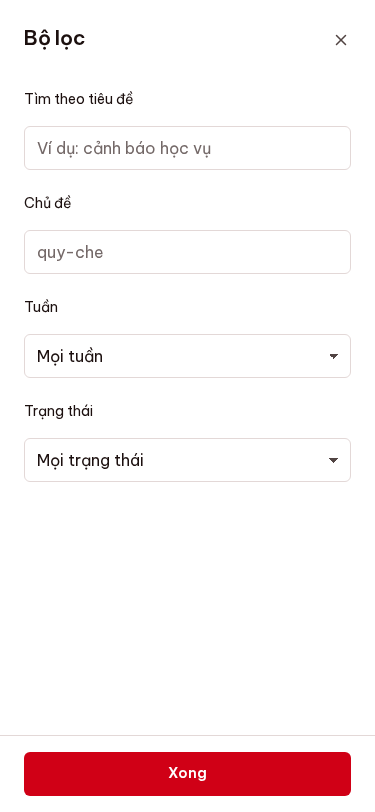
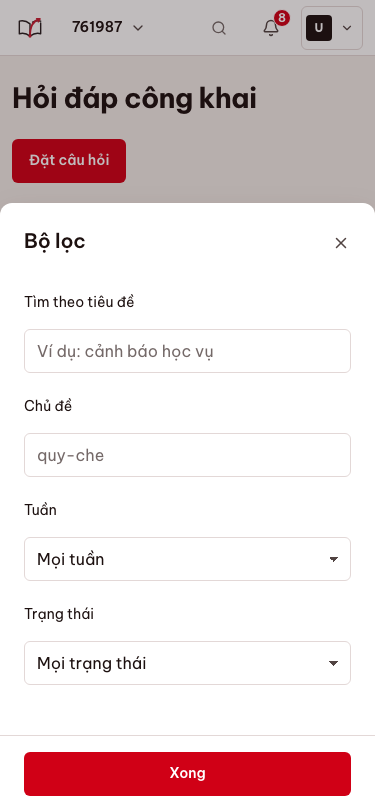
9.1: QC kiểm lại đợt 5 ở b02eeb68 trên Mac (FAIL: 4/7 lỗi đã sửa; còn P-91-13/14, UX13-19 mới, X1 ảnh; P-91-15)

diff --git a/frontend/e2e/qc-uiux91-w5b-real.spec.ts b/frontend/e2e/qc-uiux91-w5b-real.spec.ts
@@ -54,7 +54,7 @@ test("TC-UX19 giảng viên: đoạn trích, nhãn đa số, nhãn từng thread
     console.log(`INFO UX19 pending=${pending} dòng đầu:`, JSON.stringify((await page.locator("main").innerText()).match(/\d+ câu chờ xác nhận/)), "| số hàng có «Chờ xác nhận»:", data.filter((d) => d.meta.includes("Chờ xác nhận")).length, "| nhãn khác:", JSON.stringify(data.filter((d) => /Đã được|Đã sửa|Đã loại/.test(d.meta)).map((d) => d.title)));
     const t7 = data[6].prev;
     console.log("INFO UX19-2 T7:", t7.length, JSON.stringify(t7.slice(0, 30)), t7.endsWith("…"));
-    if (pending === 17) await page.screenshot({ path: "/out/shots-w5/threads-gv-fixture-1440.png" });
+    if (pending === 17) await page.screenshot({ path: "../docs/sprints/9.1/qc/shots/wave-5/threads-gv-fixture-1440.png" });
     await ctx.close();
   }
 });
@@ -101,7 +101,7 @@ test("TC-UX19 thật: giảng viên, SV 375 bộ lọc, thời gian, phân trang
   await dlg.getByRole("button", { name: "Xong" }).tap().catch(() => undefined);
   await p2.waitForTimeout(800);
   console.log("INFO UX19-7 sau đặt 2 bộ lọc:", JSON.stringify(await fb.first().innerText()), JSON.stringify(await fb.first().boundingBox()));
-  await p2.screenshot({ path: "/out/shots-w5/threads-sv-375.png" });
+  await p2.screenshot({ path: "../docs/sprints/9.1/qc/shots/wave-5/threads-sv-375.png" });
   console.log("INFO UX19-6 SV: danh sách có nội dung AI chưa xác nhận?", JSON.stringify((await rowsOf(p2).first().innerText()).replace(/\s+/g, " ").slice(0, 200)));
   // PII dialog: SV viết bài có MSSV
   await c2.close();
@@ -117,7 +117,7 @@ test("TC-UX19 thật: giảng viên, SV 375 bộ lọc, thời gian, phân trang
   await form.getByRole("button", { name: /Đăng|Gửi/ }).first().click();
   await p3.waitForTimeout(2500);
   console.log("INFO UX19-12 hộp thoại:", await p3.getByRole("dialog").count(), JSON.stringify((await p3.getByRole("dialog").first().innerText().catch(() => "")).replace(/\s+/g, " ").slice(0, 300)), "| status:", JSON.stringify(await p3.locator("[data-part=pii-notice]").allInnerTexts()));
-  await p3.screenshot({ path: "/out/shots-w5/threads-pii-1440.png" });
+  await p3.screenshot({ path: "../docs/sprints/9.1/qc/shots/wave-5/threads-pii-1440.png" });
   await c3.close();
   // 403 SV không thuộc lớp
   const c4 = await browser.newContext({ ignoreHTTPSErrors: true });
@@ -149,7 +149,7 @@ test("TC-UX20 Kết quả của tôi: một khối, số khớp API, chưa công
   console.log("INFO UX20-1 «Căn cứ» số lần:", (txt.match(/Căn cứ/g) ?? []).length, "| «Giữa kỳ · 20 %» lặp:", (txt.match(/Giữa kỳ/g) ?? []).length, "| mã lớp trần:", /^761987$/m.test(await page.locator("main").innerText()), "| đã công bố nút xem lại:", JSON.stringify(txt.match(/Yêu cầu xem lại/g)));
   // nửa dưới: bài tập / điểm nháp
   console.log("INFO UX20-4 từ nháp / rủi ro / ghi chú:", JSON.stringify(txt.match(/nháp|rủi ro|ghi chú quan sát|DRAFT/gi)));
-  await page.screenshot({ path: "/out/shots-w5/me-1440.png", fullPage: true });
+  await page.screenshot({ path: "../docs/sprints/9.1/qc/shots/wave-5/me-1440.png", fullPage: true });
   // SV chưa có điểm
   const c2 = await browser.newContext({ ignoreHTTPSErrors: true, viewport: { width: 1440, height: 900 } });
   const p2 = await c2.newPage();
@@ -157,7 +157,7 @@ test("TC-UX20 Kết quả của tôi: một khối, số khớp API, chưa công
   await p2.goto("/me");
   await p2.waitForTimeout(4500);
   console.log("INFO UX20-6 sv.moi /me:", JSON.stringify((await p2.locator("main").innerText()).replace(/\n+/g, " ⏎ ").slice(0, 500)));
-  await p2.screenshot({ path: "/out/shots-w5/me-moi-1440.png" });
+  await p2.screenshot({ path: "../docs/sprints/9.1/qc/shots/wave-5/me-moi-1440.png" });
   // 403 SV A gọi dữ liệu SV B
   const cs = await api(p2, "/me/courses");
   console.log("INFO UX20-8 sv.moi lớp:", JSON.stringify(cs.body.items?.map((i: any) => i.course.class_code)));
@@ -176,7 +176,7 @@ test("TC-UX20 Kết quả của tôi: một khối, số khớp API, chưa công
   await p3.goto("/me");
   await p3.waitForTimeout(4500);
   console.log("INFO UX20-9 375: scrollHeight", await p3.evaluate(() => document.documentElement.scrollHeight), "| tràn ngang:", await p3.evaluate(() => document.documentElement.scrollWidth - document.documentElement.clientWidth));
-  await p3.screenshot({ path: "/out/shots-w5/me-375-full.png", fullPage: true });
+  await p3.screenshot({ path: "../docs/sprints/9.1/qc/shots/wave-5/me-375-full.png", fullPage: true });
   await c3.close();
 });
 
@@ -195,7 +195,7 @@ test("TC-UX18 Tài liệu: nhãn Loại, Chia sẻ từ, công tắc, 375, SV, l
     const sw = await page.locator("main tbody tr [role=switch]").evaluateAll((els) => els.map((e) => ({ name: e.getAttribute("aria-label") ?? "", on: e.getAttribute("aria-checked"), dis: (e as HTMLButtonElement).disabled || e.getAttribute("aria-disabled"), w: Math.round(e.getBoundingClientRect().width), h: Math.round(e.getBoundingClientRect().height), bg: getComputedStyle(e).backgroundColor, op: getComputedStyle(e).opacity })));
     console.log(`INFO UX18-4 @${w} công tắc:`, JSON.stringify(sw));
     if (w === 1440) {
-      await page.screenshot({ path: "/out/shots-w5/documents-1440.png" });
+      await page.screenshot({ path: "../docs/sprints/9.1/qc/shots/wave-5/documents-1440.png" });
       // UX18-7: chặn API, đổi công tắc
       const first = page.locator("main tbody tr [role=switch]").first();
       const before = await first.getAttribute("aria-checked");
@@ -232,7 +232,7 @@ test("TC-UX18 Tài liệu: nhãn Loại, Chia sẻ từ, công tắc, 375, SV, l
   await p3.goto("/documents");
   await p3.waitForTimeout(4500);
   console.log("INFO UX18-5/9 375: tràn ngang", await p3.evaluate(() => document.documentElement.scrollWidth - document.documentElement.clientWidth), "| công tắc:", JSON.stringify(await p3.locator("[role=switch]").evaluateAll((els) => els.slice(0, 4).map((e) => `${Math.round(e.getBoundingClientRect().width)}x${Math.round(e.getBoundingClientRect().height)}`))));
-  await p3.screenshot({ path: "/out/shots-w5/documents-375.png" });
+  await p3.screenshot({ path: "../docs/sprints/9.1/qc/shots/wave-5/documents-375.png" });
   await c3.close();
   // SV, lớp lạ
   const c4 = await browser.newContext({ ignoreHTTPSErrors: true, viewport: { width: 1440, height: 900 } });

diff --git a/frontend/e2e/qc-uiux91-w5i-real.spec.ts b/frontend/e2e/qc-uiux91-w5i-real.spec.ts
@@ -1,0 +1,72 @@
+import { expect, test, type Page } from "@playwright/test";
+
+test.skip(!process.env.QC_REAL, "cần stack thật ep-qc: chạy bằng `QC_REAL=1 playwright test -c playwright.qc-real.config.ts`");
+const PW = process.env.QC_PW ?? "Edupilot#Seed-2026";
+
+async function login(page: Page, email: string) {
+  await page.goto("/login");
+  await page.locator("input[type=email]").fill(email);
+  await page.locator("input[type=password]").fill(PW);
+  await page.keyboard.press("Enter");
+  await page.waitForURL((u) => !u.pathname.startsWith("/login"));
+  await page.locator("[data-part=topbar]").waitFor();
+}
+const api = (page: Page, path: string) =>
+  page.evaluate(async (p) => {
+    const a = await (await fetch("/api/v1/auth/refresh", { method: "POST", credentials: "include" })).json();
+    const r = await fetch(`/api/v1${p}`, { headers: { authorization: `Bearer ${a.access_token}` } });
+    return { status: r.status, body: await r.json().catch(() => null) };
+  }, path);
+const cid = async (page: Page, code: string) => (await api(page, "/me/courses")).body.items.find((i: { course: { class_code: string } }) => i.course.class_code === code).course.id as string;
+const fresh = async (browser: import("@playwright/test").Browser, mail: string, vp = { width: 1440, height: 900 }) => { const ctx = await browser.newContext({ ignoreHTTPSErrors: true, viewport: vp }); const page = await ctx.newPage(); page.setDefaultTimeout(10000); await login(page, mail); return { ctx, page }; };
+
+test("TC-UX19-10 danh sách lỗi → ApiErrorNotice + Thử lại", async ({ browser }, info) => {
+  test.skip(info.project.name !== "desktop");
+  test.setTimeout(100000);
+  const { ctx, page } = await fresh(browser, "teacher@edupilot.local");
+  let block = true;
+  await page.route(/\/api\/v1\/courses\/[0-9a-f-]+\/threads(\?.*)?$/, (r) => (block ? r.abort() : r.continue()));
+  await page.goto("/threads"); await page.waitForTimeout(5000);
+  const retry = page.getByRole("button", { name: /Thử lại/ });
+  console.log("INFO UX19-10 lỗi:", JSON.stringify((await page.locator("main").innerText()).replace(/\s+/g, " ").slice(0, 200)), "| Thử lại:", await retry.count());
+  block = false;
+  if (await retry.count()) { await retry.first().click(); await page.waitForTimeout(3000); }
+  console.log("INFO UX19-10 sau Thử lại: số hàng", await page.locator("[data-part=thread-list] > li").count());
+  await ctx.close();
+});
+
+test("TC-UX20-8 tham số user_id không đổi danh tính", async ({ browser }, info) => {
+  test.skip(info.project.name !== "desktop");
+  test.setTimeout(100000);
+  const { ctx, page } = await fresh(browser, "sv.kha@edupilot.local");
+  const c = await cid(page, "761987");
+  const own = await api(page, `/courses/${c}/me/grades`);
+  const { ctx: c2, page: p2 } = await fresh(browser, "sv.gioi@edupilot.local");
+  const other = await api(p2, `/courses/${c}/me/grades`);
+  const spoof = await api(page, `/courses/${c}/me/grades?user_id=${(await api(p2, "/auth/me").catch(() => ({ body: null }))).body?.sub ?? "00000000-0000-4000-8000-000000000000"}`);
+  console.log("INFO UX20-8 qt của A:", own.body?.qt, "| qt của B:", other.body?.qt, "| A gọi ?user_id=B:", spoof.status, spoof.body?.qt, "| bằng của A:", spoof.body?.qt === own.body?.qt);
+  expect(spoof.body?.qt).toBe(own.body?.qt);
+  await c2.close(); await ctx.close();
+});
+
+test("TC-UX13-3/4 thu gọn lịch sử: vị trí Panel; tiêu đề dài", async ({ browser }, info) => {
+  test.skip(info.project.name !== "desktop");
+  test.setTimeout(150000);
+  const { ctx, page } = await fresh(browser, "sv.kha@edupilot.local");
+  await page.goto("/chat"); await page.waitForTimeout(4500);
+  const panel = () => page.locator("[data-part=chat-inner]").evaluate((e) => { const p = e.closest("[class*=Panel-module]") as HTMLElement; const r = p.getBoundingClientRect(); const m = document.querySelector("main")!.getBoundingClientRect(); return { x: Math.round(r.x), r: Math.round(r.right), w: Math.round(r.width), mainL: Math.round(m.x), mainR: Math.round(m.right) }; });
+  console.log("INFO UX13-1 trước thu gọn:", JSON.stringify(await panel()));
+  await page.getByRole("button", { name: "Thu gọn lịch sử" }).click(); await page.waitForTimeout(900);
+  console.log("INFO UX13-3 sau thu gọn:", JSON.stringify(await panel()));
+  await page.screenshot({ path: "../docs/sprints/9.1/qc/shots/wave-5/chat-collapsed-1440.png" });
+  await page.getByRole("button", { name: /^Phiên trước/ }).first().click().catch(() => undefined);
+  await page.waitForTimeout(600);
+  const long = "Em muốn hỏi một câu rất dài về cách tính điểm quá trình, điểm chuyên cần, điểm cộng phát biểu và điểm trừ vắng mặt trong học phần An ninh mạng của lớp em học kỳ này";
+  await page.getByRole("textbox", { name: "Câu hỏi của bạn" }).fill(long);
+  await page.getByRole("button", { name: "Gửi", exact: true }).click();
+  await page.waitForTimeout(7000);
+  const row = page.locator("[data-part=chat-history] li").first();
+  console.log("INFO UX13-4 hàng:", JSON.stringify((await row.innerText()).replace(/\n/g, " ⏎ ")), JSON.stringify(await row.evaluate((e) => { const t = e.querySelector("button, a, p, span") as HTMLElement; const c = getComputedStyle(t); return { lh: c.lineHeight, h: Math.round(t.getBoundingClientRect().height), clamp: c.webkitLineClamp, ov: c.overflow }; })));
+  await page.screenshot({ path: "../docs/sprints/9.1/qc/shots/wave-5/chat-longtitle-1440.png" });
+  await ctx.close();
+});

diff --git a/frontend/e2e/qc-uiux91-w5e-real.spec.ts b/frontend/e2e/qc-uiux91-w5e-real.spec.ts
@@ -38,7 +38,7 @@ test("TC-UX18 Tài liệu lớp 761987 (tài liệu của chính lớp): công t
   console.log("INFO UX18-4 công tắc 761987:", JSON.stringify(info1.slice(0, 8)), "| tên truy cập:", JSON.stringify(named));
   const nameOf = async (i: number) => page.evaluate((idx) => { const e = document.querySelectorAll("[role=switch]")[idx] as HTMLElement; const lb = e.getAttribute("aria-labelledby"); return e.getAttribute("aria-label") ?? (lb ? lb.split(" ").map((x) => document.getElementById(x)?.textContent).join(" ") : (e.closest("label")?.textContent ?? "")); }, i);
   console.log("INFO UX18-4 tên:", JSON.stringify([await nameOf(0), await nameOf(1), await nameOf(2)]));
-  await page.screenshot({ path: "/out/shots-w5/documents-761987-1440.png" });
+  await page.screenshot({ path: "../docs/sprints/9.1/qc/shots/wave-5/documents-761987-1440.png" });
   const first = page.getByRole("switch").first();
   const before = await first.getAttribute("aria-checked");
   await page.route(/\/api\/v1\/courses\/[0-9a-f-]+\/documents\/[0-9a-f-]+/, (r) => (["PATCH", "PUT", "POST"].includes(r.request().method()) ? r.abort() : r.continue()));
@@ -65,7 +65,7 @@ test("TC-UX18 Tài liệu lớp 761987 (tài liệu của chính lớp): công t
   await p3.evaluate((id) => localStorage.setItem("ep:ui:course", id), c);
   await p3.goto("/documents"); await p3.waitForTimeout(5000);
   console.log("INFO UX18-5/9 375 761987: tràn", await p3.evaluate(() => document.documentElement.scrollWidth - document.documentElement.clientWidth), "| công tắc (hộp công tắc / nhãn bọc):", JSON.stringify(await p3.getByRole("switch").evaluateAll((els) => els.slice(0, 4).map((e) => { const l = e.closest("label") ?? e; const r = l.getBoundingClientRect(); const s = e.getBoundingClientRect(); return `sw ${Math.round(s.width)}x${Math.round(s.height)} / bọc ${Math.round(r.width)}x${Math.round(r.height)}`; }))));
-  await p3.screenshot({ path: "/out/shots-w5/documents-761987-375.png", fullPage: true });
+  await p3.screenshot({ path: "../docs/sprints/9.1/qc/shots/wave-5/documents-761987-375.png", fullPage: true });
   await c3.close();
 });
 
@@ -79,6 +79,6 @@ test("TC-UX19-7 bảng bộ lọc 375: trượt từ đáy", async ({ browser },
   await page.waitForTimeout(900);
   const box = await page.evaluate(() => { const d = document.querySelector("dialog[open], [role=dialog]") as HTMLElement; const out: unknown[] = []; let e: HTMLElement | null = d; for (let i = 0; i < 3 && e; i++) { const r = e.getBoundingClientRect(); out.push({ tag: e.tagName, cls: e.className.toString().slice(0, 30), y: Math.round(r.y), b: Math.round(r.bottom), h: Math.round(r.height), radius: getComputedStyle(e).borderTopLeftRadius }); e = e.firstElementChild as HTMLElement | null; } return out; });
   console.log("INFO UX19-7 khung:", JSON.stringify(box));
-  await page.screenshot({ path: "/out/shots-w5/threads-sheet-375.png" });
+  await page.screenshot({ path: "../docs/sprints/9.1/qc/shots/wave-5/threads-sheet-375.png" });
   await ctx.close();
 });

diff --git a/frontend/e2e/qc-uiux91-w5d-real.spec.ts b/frontend/e2e/qc-uiux91-w5d-real.spec.ts
@@ -49,7 +49,7 @@ test("TC-UX17 Insights thật 761988: Panel, khung lồng, chữ, khoảng cách
   console.log("INFO UX17-6 khoảng giữa Panel:", JSON.stringify(gaps));
   const lines = await page.locator("main").evaluate((m) => [...m.querySelectorAll("h1 ~ *, h2 ~ p, h2 + *, p")].filter((e) => e.tagName === "P" || /meta|sub|note|hint/i.test(e.className.toString())).slice(0, 12).map((e) => { const t = (e as HTMLElement).innerText.replace(/\s+/g, " ").trim(); return `${t.split(/\s+/).filter((w) => /\p{L}|\d/u.test(w)).length}t: ${t.slice(0, 90)}`; }));
   console.log("INFO UX17-3 các dòng phụ:", JSON.stringify(lines));
-  await page.screenshot({ path: "/out/shots-w5/insights-1440-full.png", fullPage: true });
+  await page.screenshot({ path: "../docs/sprints/9.1/qc/shots/wave-5/insights-1440-full.png", fullPage: true });
   // :active và hoạt cảnh
   const btn = page.getByRole("button", { name: "Tạo báo cáo mới" });
   const bb = (await btn.boundingBox())!;
@@ -71,7 +71,7 @@ test("TC-UX17 Insights thật 761988: Panel, khung lồng, chữ, khoảng cách
   await p2.waitForTimeout(4500);
   const t2 = (await p2.locator("main").innerText()).replace(/\n+/g, " ⏎ ");
   console.log("INFO UX17-9 /insights lớp không có báo cáo:", JSON.stringify(t2.slice(0, 400)), "| nút:", JSON.stringify(await p2.locator("main button").allInnerTexts()));
-  await p2.screenshot({ path: "/out/shots-w5/insights-empty-1440.png" });
+  await p2.screenshot({ path: "../docs/sprints/9.1/qc/shots/wave-5/insights-empty-1440.png" });
   // UX17-10: tạo báo cáo mới
   const create = p2.getByRole("button", { name: "Tạo báo cáo mới" });
   if (await create.count()) {
@@ -109,7 +109,7 @@ test("TC-UX17 Quan sát AI thật: số liệu đúng một chỗ, bảng 7 ngà
   await rows.first().click().catch(() => undefined);
   await page.waitForTimeout(1200);
   console.log("INFO UX17-7 sau chọn hàng: dialog", await page.getByRole("dialog").count(), "| text:", JSON.stringify((await page.locator("body").innerText()).replace(/\s+/g, " ").match(/(Nội dung|prompt|Prompt|câu hỏi của sinh viên)[^.]{0,80}/g)?.slice(0, 3)));
-  await page.screenshot({ path: "/out/shots-w5/observability-1440-full.png", fullPage: true });
+  await page.screenshot({ path: "../docs/sprints/9.1/qc/shots/wave-5/observability-1440-full.png", fullPage: true });
   await ctx.close();
   // quyền
   const c761988 = await (async () => { const c = await browser.newContext({ ignoreHTTPSErrors: true }); const p = await c.newPage(); await login(p, "teacher@edupilot.local"); const id = await cid(p, "761988"); await c.close(); return id; })();

diff --git a/frontend/e2e/qc-uiux91-w5a-real.spec.ts b/frontend/e2e/qc-uiux91-w5a-real.spec.ts
@@ -84,7 +84,7 @@ test("TC-UX13 chat 1440: bố cục, lịch sử, gợi ý, Phiên mới, xoá c
   const txt = (await page.locator("main").innerText()).replace(/\s+/g, " ");
   console.log("INFO UX13-15 dòng che:", JSON.stringify(txt.match(/Đã ẩn \d+ thông tin cá nhân trước khi gửi cho AI/)), "| lộ tên/MSSV/email trong màn:", /Nguyễn Minh Trung|20229002|sv\.kha@/.test(txt));
   console.log("INFO UX13-14 từ kỹ thuật sau gửi:", JSON.stringify(txt.match(BAD)));
-  await page.screenshot({ path: "/out/shots-w5/chat-after-send-1440.png" });
+  await page.screenshot({ path: "../docs/sprints/9.1/qc/shots/wave-5/chat-after-send-1440.png" });
 
   // --- xoá có hoàn tác (phiên PII vừa tạo là hàng đầu)
   await page.waitForTimeout(500);
@@ -173,7 +173,7 @@ test("TC-UX13-18/21/22/23 chat: gõ khi đang trả lời, gửi lại cùng Ide
     const a = await (await fetch("/api/v1/auth/refresh", { method: "POST", credentials: "include" })).json();
     const h = { authorization: `Bearer ${a.access_token}` };
     const out: string[] = [];
-    for (const id of ids.slice(0, 3)) { const r = await fetch(`/api/v1/chat/sessions/${id}/messages?limit=5`, { headers: h }); out.push(`${r.status}:${(await r.text()).includes("Tin QC") || (await r.clone().text()).includes("content") && r.status === 200 ? "LỘ" : "ok"}`); }
+    for (const id of ids.slice(0, 3)) { const r = await fetch(`/api/v1/chat/sessions/${id}/messages?limit=5`, { headers: h }); out.push(`${r.status}:${((t) => (t.includes("Tin QC") || (t.includes("content") && r.status === 200) ? "LỘ" : "ok"))(await r.text())}`); }
     return out;
   }, cnt.ids);
   console.log("INFO UX13-23 SV khác đọc phiên của SV A:", JSON.stringify(res));
@@ -224,7 +224,7 @@ test("TC-UX13-24/14/25 chat 375: bảng phiên, ô nhập, vùng chạm, hoạt 
   console.log("INFO UX13-24 bảng phiên:", await dlg.count(), JSON.stringify(db), "| hàng:", await dlg.first().locator("button, a, [role=option], li").count());
   const hits = await dlg.first().locator("button, a, [role=menuitem], [role=option]").evaluateAll((es) => es.slice(0, 12).map((e) => `${(e as HTMLElement).innerText.trim().slice(0, 18)}:${Math.round(e.getBoundingClientRect().width)}x${Math.round(e.getBoundingClientRect().height)}`));
   console.log("INFO UX13-24 vùng chạm trong bảng:", JSON.stringify(hits));
-  await page.screenshot({ path: "/out/shots-w5/chat-sheet-375.png" });
+  await page.screenshot({ path: "../docs/sprints/9.1/qc/shots/wave-5/chat-sheet-375.png" });
   await page.keyboard.press("Escape");
   await ctx.close();
 });

diff --git a/frontend/e2e/qc-uiux91-w5g-real.spec.ts b/frontend/e2e/qc-uiux91-w5g-real.spec.ts
@@ -32,7 +32,7 @@ test("TC-UX20-6/7 /me rỗng và lỗi", async ({ browser }, info) => {
   await page.route(/\/courses\/[0-9a-f-]+\/me\/grades(\?.*)?$/, (r) => r.fulfill({ json: empty }));
   await page.goto("/me"); await page.waitForTimeout(4500);
   console.log("INFO UX20-6 rỗng:", JSON.stringify((await page.locator("main").innerText()).replace(/\s+/g, " ").slice(0, 300)));
-  await page.screenshot({ path: "/out/shots-w5/me-empty-1440.png" });
+  await page.screenshot({ path: "../docs/sprints/9.1/qc/shots/wave-5/me-empty-1440.png" });
   await page.unroute(/\/courses\/[0-9a-f-]+\/me\/grades(\?.*)?$/);
   await page.route(/\/courses\/[0-9a-f-]+\/me\/grades(\?.*)?$/, (r) => r.abort());
   await page.goto("/me"); await page.waitForTimeout(4500);
@@ -91,7 +91,7 @@ test("TC-UX17-8/9 admin xem prompt; lớp chưa có báo cáo", async ({ browser
   await page.evaluate((id) => localStorage.setItem("ep:ui:course", id), c);
   await page.goto("/insights"); await page.waitForTimeout(4500);
   console.log("INFO UX17-9 lớp QC117283:", JSON.stringify((await page.locator("main").innerText()).replace(/\n+/g, " ⏎ ").slice(0, 300)), "| nút:", JSON.stringify(await page.locator("main button").allInnerTexts()));
-  await page.screenshot({ path: "/out/shots-w5/insights-empty-qc-1440.png" });
+  await page.screenshot({ path: "../docs/sprints/9.1/qc/shots/wave-5/insights-empty-qc-1440.png" });
   await ctx.close();
   const { ctx: c2, page: p2 } = await fresh(browser, "admin@edupilot.local");
   await p2.goto("/observability"); await p2.waitForTimeout(4500);

diff --git a/frontend/e2e/qc-uiux91-w5x-real.spec.ts b/frontend/e2e/qc-uiux91-w5x-real.spec.ts
@@ -32,8 +32,8 @@ for (const [name, email, url] of PAGES) {
       await login(page, email);
       await page.goto(url);
       await page.waitForTimeout(4500);
-      await page.screenshot({ path: `/out/shots-w5/${name}-${w}.png` });
-      await page.screenshot({ path: `/out/shots-w5/${name}-${w}-full.png`, fullPage: true });
+      await page.screenshot({ path: `../docs/sprints/9.1/qc/shots/wave-5/${name}-${w}.png` });
+      await page.screenshot({ path: `../docs/sprints/9.1/qc/shots/wave-5/${name}-${w}-full.png`, fullPage: true });
       const t = (await page.locator("main").innerText()).replace(/\n+/g, " ⏎ ");
       console.log(`INFO ${name}@${w} H=${await page.evaluate(() => document.documentElement.scrollHeight)} :: ${t.slice(0, w === 1440 ? 1800 : 400)}`);
       await ctx.close();

diff --git a/docs/sprints/9.1/qc/wave-5.md b/docs/sprints/9.1/qc/wave-5.md
@@ -1,6 +1,36 @@
 # QC đợt 5 — Chat riêng, Hỏi đáp, Kết quả của tôi, Tài liệu, Insights (US-UX91-13, 19, 20, 18, 17)
 
-**ĐANG KIỂM DỞ, tiếp tục tối 09/11 (chủ dự án cho dừng).** Kết luận tạm: **FAIL** (đã có FAIL chắc chắn ở US-13, 19, 20, 18; US-17 còn mục không kiểm được). Bảng dưới là phần đã chạy; mục «CHƯA CHẠY» làm tiếp.
+**Kết luận lượt 2 (`b02eeb68`, dev: «9.1 sửa QC đợt 5»): FAIL.** 4 trong 7 lỗi lượt 1 đã sửa (UX13-17, UX19-7, UX20-6, UX18-7). Còn mở: UX13-1 và UX20-9 (chờ PM quyết P-91-13, P-91-14), lỗi mới UX13-19 (Thấp), US-08 AC10a ảnh khung ghim (Thấp), UX17-8/9 không kiểm được (P-91-15). Không có lỗi mức Trung bình. Bảng «lượt 1» ở dưới giữ nguyên làm lịch sử.
+
+## Kiểm lại lần 2 ở `b02eeb68`
+Môi trường: Mac (Apple Silicon, Colima), stack `-p ep-qc` dựng lại **sạch** (`down -v` + seed 30 SV + docling) từ `b02eeb68`, `https://localhost:943`, mock LLM. Chạy `qc-uiux91-w5a…w5h`, `w5i` (stack thật, 21 + 3 ca), 123 ca dev (`documents`, `me`, `threads`, `private-chat`, `panels`), `ui-antipatterns.sh`, `eslint`, `tsc`.
+| TC | Lượt 1 | Nay | Ghi chú |
+| --- | --- | --- | --- |
+| UX13-17 (AC6 «chỉ bạn đọc được») | FAIL (Thấp) | PASS | Phiên trống 1440: câu có ở `main` và `body` |
+| UX19-7 (AC4, 375) | FAIL (Thấp) | PASS | Bảng lọc `y 203 → 812`, rộng 375, nút `Bộ lọc` 102×44 → «Bộ lọc · 2» 122×44; trượt từ đáy |
+| UX20-6 (AC6) | FAIL (Thấp) | PASS | «Chưa có điểm nào được công bố. Điểm sẽ hiện ở đây khi giảng viên công bố.» |
+| UX18-7 (AC5) | FAIL (Thấp) | PASS | Chặn ghi → công tắc hoàn lại, «Chưa lưu được.» + nút `Thử lại` (1); bấm `Thử lại` → công tắc đổi |
+| **UX13-1 (AC1 Panel căn giữa)** | FAIL (Thấp) | **FAIL (Thấp), chờ PM** | Panel `x 540 → 1380` (840), lề 36 / 36 trong phần bên phải cột lịch sử (504 → 1416), lề 324 / 60 so với vùng nội dung. Dev đề xuất giữ (P-91-13); theo AC hiện hành vẫn FAIL |
+| UX13-3 (thu gọn lịch sử) | PASS có ghi chú | PASS | Thu gọn: Panel `x 408 → 1248`, rộng 840, căn giữa vùng nội dung (216 → 1440); CLS 0 |
+| UX13-4 (tiêu đề dài) | CHƯA CHẠY | PASS | Tiêu đề 2 dòng, `-webkit-line-clamp: 2`, `overflow: hidden`, `…` ở cuối |
+| **UX13-19 (AC7, nháp sau tải lại)** | PASS có giới hạn | **FAIL (Thấp)** | Xem «Lỗi mới» dưới |
+| UX13-21 (AC8 gửi lại) | PASS | PASS có ghi chú | Chặn POST → ô nhập giữ chữ, `Gửi lại`; bỏ chặn → đúng 1 tin được ghi. Không đo được hai `Idempotency-Key` (phiên mới: lần 1 là `POST /chat/sessions`, không phải `…/messages`) |
+| UX19-10 (AC6 lỗi API) | CHƯA CHẠY | PASS | Lỗi tải → `Thử lại`; bấm → 3 hàng |
+| UX20-8 (AC7) | PASS có giới hạn | PASS | `GET /courses/‹c›/me/grades?user_id=‹B›` gọi bởi A → 200 và `qt` **của A** (8.25, không phải 10 của B); A gọi `…/students/‹B›/explain` → 403 |
+| **UX20-9 (AC8, 375)** | FAIL (Thấp) | **FAIL (Thấp), chờ PM** | `sv.kha`: 2.059 px (lượt 1: 2.387), không tràn ngang. Vẫn > 1.600; dev đề xuất ≤ 2.000 (P-91-14) |
+| UX13-2 (`ui-antipatterns`, `panels.spec`) | CHƯA CHẠY | PASS | `ui-antipatterns.sh` sạch, `panels.spec` xanh |
+| UX17-1…7, 10, 13 | PASS | PASS | Insights 761988: 2 Panel cấp trên, 0 khung lồng, khoảng 123 px; `:active` `scale(0,97)` |
+| UX17-8, 9 | KHÔNG KIỂM ĐƯỢC | KHÔNG KIỂM ĐƯỢC (FAIL theo luật) | `/insights` hiện báo cáo mô phỏng cho cả lớp 761987 trong khi `GET …/insights` của lớp đó 404: màn không đọc dữ liệu thật, không có `audit_log` thật. Đề nghị P-91-15 |
+| UX91-X1 (US-08 AC10a) | FAIL (Thấp) | **FAIL (Thấp)** | `frontend/public/landing/story-*-v1.webp` không đổi từ `c7083a3d`; `b02eeb68` chỉ sửa `scripts/landing-video` (cho chạy trên stack HTTPS) chứ chưa chụp lại |
+| UX91-X2 | CHƯA CHẠY | PASS có giới hạn | `ui-antipatterns.sh` sạch; `eslint .` và `tsc --noEmit` sạch; 123 ca dev (`documents`, `me`, `threads`, `private-chat`, `panels`) xanh. Cả bộ 916 ca + Lighthouse `/` là việc của dev trước handoff, QC không chạy lại |
+| UX91-X4 | CHƯA CHẠY | PASS | `w5h-real`: quét chữ SV 375 mọi route, không từ cấm |
+| Các ca khác `w5a`–`w5g` | PASS | PASS | 16 ca xanh lượt chạy lại (khớp bảng lượt 1) |
+
+### Lỗi mới — UX13-19 / US-13 AC7: nháp biến mất sau tải lại khi phiên đã có tin — Thấp
+Tái hiện (đã chạy thật, `sv.kha`): `/chat` → gửi «Điểm danh của tôi thế nào?» (đợi trả lời xong) → gõ «nháp sau khi gửi» trong ô nhập → đợi 2,6 s → tải lại trang.
+- Sau tải lại màn mở một **phiên mới trống**, ô nhập trống; URL là `/chat` (không giữ phiên). Nháp vẫn được lưu: bấm lại hàng đầu của lịch sử thì ô nhập có «nháp sau khi gửi».
+- Phiên trống không có tin (nháp gõ ngay khi mở): tải lại giữ nháp (đạt).
+- TC-UX13-19 «Gõ nháp, đợi 2,2 s, tải lại → Nháp còn»: với người dùng đang trò chuyện tiếp, chữ có vẻ mất. Đề nghị mở lại đúng phiên đang xem sau khi tải lại (giữ `?session=` — màn Hỏi đáp đã dùng `/chat?session=…`), hoặc nêu trong AC rằng nháp gắn với phiên.
 
 ## Môi trường
 | Mục | Giá trị |
@@ -106,16 +136,12 @@
 | UX91-X3 | PASS có ghi chú | Không migration mới; không `fetch(` trần mới; 3 `Demo*.tsx` bị sửa từ đợt 1+2 (đổi chữ «Threads» → «Hỏi đáp công khai» theo US-07 AC4; `DemoDocuments` đổi `progressStyle`), trái câu «không sửa `Demo*.tsx`» của US-01 nhưng cần cho US-07 AC4 |
 | UX91-X4 | CHƯA CHẠY | `w5h-real.spec.ts` đã viết, chưa chạy |
 
-## CHƯA CHẠY (làm tiếp tối 09/11)
-UX13-2, UX19-10, UX20-8 (tham số `user_id`), UX13-4 (tiêu đề dài), UX13-3 (vị trí Panel sau thu gọn), UX13-19 (phiên cũ), X2, X4. Ca chuẩn bị sẵn: `qc/scripts/pending/qc-uiux91-w5i-real.spec.ts.txt`.
-
-## Lỗi cần sửa (tóm tắt)
-| # | Mức | Vị trí | Tái hiện |
+## Lỗi cần sửa (tóm tắt, lượt 2)
+| # | Mức | Vị trí | Trạng thái |
 | --- | --- | --- | --- |
-| 1 | Thấp | US-13 AC1 | `/chat` 1440: Panel `x 540–1380`, lề trái 300 / phải 36 so với vùng nội dung |
-| 2 | Thấp | US-13 AC6 | Phiên trống không còn «chỉ bạn đọc được» (chỉ ở `DemoChat`, `intro.ts`) |
-| 3 | Thấp | US-19 AC4 | 375: `Bộ lọc` mở toàn màn hình, không là bảng trượt từ đáy |
-| 4 | Thấp | US-20 AC6 | Rỗng: «Chưa có điểm được công bố.» (thiếu «nào», thiếu nơi sẽ xuất hiện) |
-| 5 | Thấp | US-20 AC8 | 375 `sv.kha`: trang cao 2.387 px (> 1.600) |
-| 6 | Thấp | US-18 AC5 | Lỗi đổi công tắc: «Chưa lưu được. Thử lại.» là chữ, không có nút `Thử lại` |
-| 7 | Thấp | US-08 AC10a | Ảnh khung ghim trang giới thiệu chưa chụp lại từ UI mới |
+| 2, 3, 4, 6 (lượt 1) | Thấp | US-13 AC6, US-19 AC4, US-20 AC6, US-18 AC5 | Đã sửa, PASS |
+| 1 | Thấp | US-13 AC1 Panel căn giữa | Mở, chờ PM (P-91-13) |
+| 5 | Thấp | US-20 AC8 trang 2.059 px > 1.600 | Mở, chờ PM (P-91-14) |
+| 7 | Thấp | US-08 AC10a ảnh `story-*` chưa chụp lại | Mở: dev chạy `scripts/landing-video/run.sh` với `STILLS_ONLY=1` và `EP_BASE_URL=https://localhost:<cổng>` |
+| 8 | Thấp | US-13 AC7 nháp sau tải lại khi phiên đã có tin | Mới (xem «Lỗi mới») |
+| — | — | US-17 AC5, AC6 (UX17-8, 9) | Không kiểm được vì màn mô phỏng (P-91-15) |

diff --git a/docs/sprints/9.1/proposals.md b/docs/sprints/9.1/proposals.md
@@ -16,3 +16,4 @@
 | P-91-11 | dev (đợt 5, US-UX91-20) | AC1 ví dụ «Giữa kỳ · 20 % · 7,5 → 1,5» có cột **đóng góp** (20 % × 7,5), nhưng `/courses/{id}/me/grades` không trả giá trị này (chỉ `components[].score`, `weight` và `calculation[]` với `expr` / `value`), còn AC3 cấm UI tự tính / làm tròn điểm | Đợt 5 làm một khối giải trình: «tên · trọng số % … điểm», «Căn cứ · tr. N» cùng dòng, **không** cột đóng góp. Nếu PM muốn có đóng góp: thêm trường `contribution` vào `me/grades` (Go, `shopspring/decimal`, một dòng + openapi) rồi UI chỉ hiển thị | `internal/grade/me.go` `meLine`; `engine.go:326` chỉ ghi các số hạng vào `expr` của dòng «Điểm học phần thô» (không có ở `/me` khi chưa chốt). CLAUDE.md: tính điểm là code thuần, UI không tính | Không đổi: `/me` không có đóng góp (AC1 thiếu một phần). Đổi: sửa hợp đồng API (cần PM duyệt, theo CLAUDE.md) | **CHẤP NHẬN** (PM 2026-11-09): không cột đóng góp ở 9.1; không đổi API trong sprint giao diện. BA sửa ví dụ AC1 |
 | P-91-13 | dev (sửa QC đợt 5, lỗi 1) | US-13 AC1 «một Panel căn giữa, rộng tối đa 840 px; lịch sử là cột phẳng bên trái»: ở 1440 px vùng nội dung 1.176 px = cột lịch sử 240 + khoảng cách 24 + Panel. Panel đã căn giữa **trong phần còn lại** (lề 36 / 36). Căn giữa theo cả vùng nội dung cần lề ≥ 168 mỗi bên, mà cột lịch sử rộng 240 | Giữ nguyên, coi «căn giữa» là trong phần bên phải cột lịch sử. Muốn căn theo cả vùng nội dung: thu cột lịch sử còn ≤ 144 px (tiêu đề 2 dòng sẽ chật) hoặc cho lịch sử đè lên lề trái | Số đo QC `x 540 → 1380` trong `504 → 1416` = đối xứng; lề 300 / 36 là so với vùng nội dung 240 → 1416 | Nếu PM muốn căn theo vùng nội dung: ghi lại số đo cột lịch sử để dev làm lại | Chờ PM; chưa đổi mã |
 | P-91-14 | dev (sửa QC đợt 5, lỗi 5) | US-20 AC8 «≤ 1.600 px ở 375 cho lớp mẫu» không đạt nếu giữ đủ nội dung: sau khi gộp «điểm cộng» cùng loại thành một dòng, ngày + nội dung cùng hàng, thu khoảng cách giữa khối và dòng giải trình, trang `/me` ở 375 còn ≈ 1.980 px trên fixture 9 buổi, 6 lần phát biểu, 2 bài tập (cùng fixture cũ đo 2.544; QC đo 2.387 trên `sv.kha`). Phần còn lại: khối Điểm 655, Bài tập 253, Chuyên cần 215, Điểm cộng 198, Thời gian học 183, và ≈ 140 px đệm đáy chừa thanh điều hướng (quy tắc chung `Page`) | Nâng ngưỡng AC8 lên ≤ 2.000 px, hoặc chấp nhận bỏ khối «Thời gian học» / gập «Bài tập» ở < 720 px (đổi nội dung nên cần BA) | Số đo ở dòng trên; 1.600 px cần cắt ≈ 400 px nội dung | Nếu giữ 1.600 mà không đổi nội dung thì AC8 luôn FAIL | Chờ PM |
+| P-91-15 | qc (kiểm lại đợt 5) | US-17 AC5 «Admin chọn hàng → hộp thoại + ghi `audit_log`» và AC6 «lớp chưa có báo cáo»: `/insights` và `/observability` hiện **dữ liệu mô phỏng**; lớp 761987 không có báo cáo (`GET …/insights` 404) nhưng màn vẫn vẽ báo cáo 66 câu hỏi. Không có `audit_log` thật để đối chiếu | Chuyển UX17-8, UX17-9 sang phase nối API thật (ghi Nợ), hoặc BA đổi AC thành kiểm bằng e2e dữ liệu giả của dev | QC `qc/wave-5.md` lượt 2: `INFO UX17-9 API insights 761987: 404` kèm màn có báo cáo | Hai TC mãi «KHÔNG KIỂM ĐƯỢC» = FAIL, US-17 không bao giờ PASS | Chờ PM |
